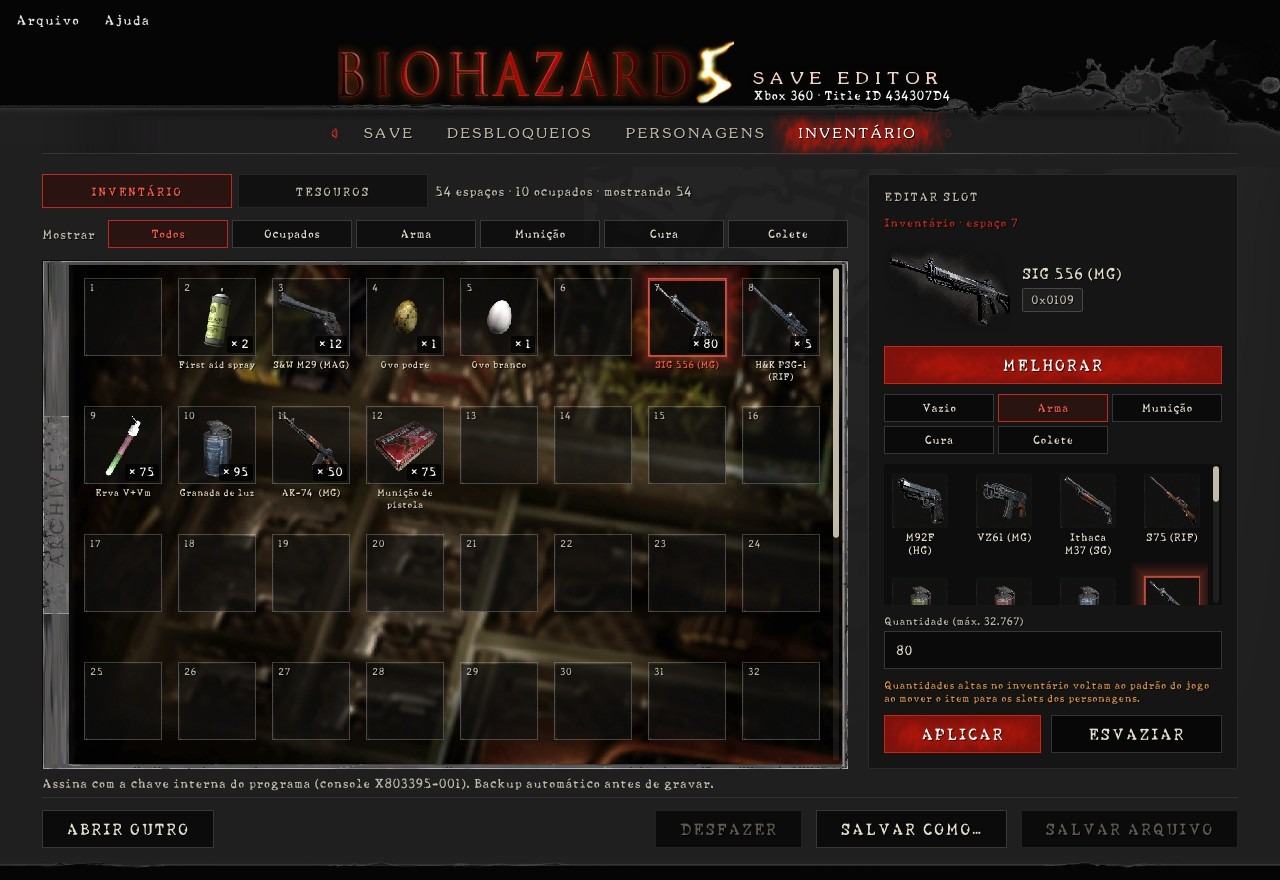
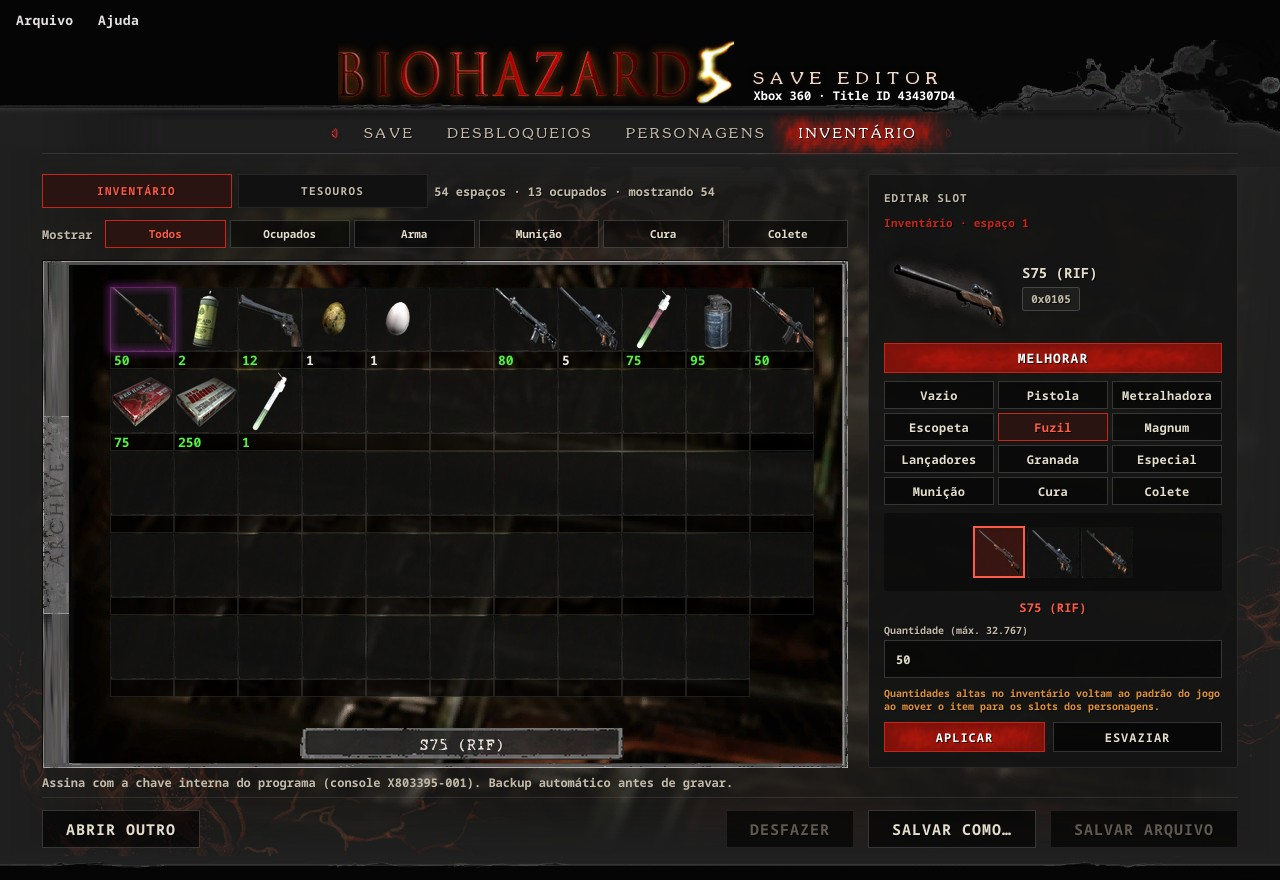
Versão 1.1.0: Personagens e Inventário no visual do jogo, Loja arma por arma e save do jogo sem atualização

diff --git a/CHANGELOG.md b/CHANGELOG.md
@@ -5,6 +5,95 @@ mais antiga. As versões seguem o [Versionamento Semântico](https://semver.org/
 
 ---
 
+## 1.1.0 — 2026-11-26
+
+Personagens e Inventário no visual do jogo, menos cliques, Loja arma por arma
+e o save do jogo sem atualização.
+
+- **Abas Personagens e Inventário no visual do jogo:** os slots do
+  Chris e da Sheva aparecem juntos, cada um embaixo do retrato, com as placas,
+  os anéis, o quadro da arma equipada e o brilho de seleção do inventário do
+  jogo; o número fica verde quando chega no limite, como no jogo. O baú usa
+  as casas, o cursor roxo e a plaqueta de nome da tela Organize e mostra os
+  54 espaços (e os 50 tesouros) sem barra de rolagem.
+- **Menos cliques:** arrastar e soltar move, junta, combina (erva
+  verde + verde, verde + vermelha, munição na arma dela) ou troca os itens,
+  com as regras do jogo; clique direito abre os atalhos; a roda do mouse muda
+  a quantidade (com Shift, de 10 em 10); Delete esvazia o slot escolhido e
+  Ctrl+Z volta o último passo. No painel, clicar no item já o põe no slot,
+  com a quantidade com que o jogo dá o item, e Enter no campo da quantidade
+  grava como o APLICAR.
+- **Painel EDITAR SLOT sem rolagem:** a classe Arma vem dividida por
+  tipo (Pistola, Metralhadora, Escopeta, Fuzil, Magnum, Lançadores, Granada,
+  Especial) e os tesouros em Objetos e Gemas; a grade mostra só os ícones, o
+  grupo inteiro à vista, com o nome embaixo. Os botões
+  APLICAR, ESVAZIAR e EQUIPAR ficam numa linha só.
+- **Grade de escolha nítida:** todos os grupos usam o mesmo tamanho,
+  com o ícone num tamanho exato do atlas (44 px; só um grupo que não caiba usa
+  40, 36 ou 32), sem o desenho torto da redução pelo pixel mais próximo. A
+  seleção fica dentro do quadradinho, sem cobrir os vizinhos.
+- **Capacidade atualiza a quantidade:** ao melhorar a capacidade de
+  uma arma, o número do slot ou do baú sobe para o pente cheio do novo nível
+  (na M92F, 10, 13, 16… até 100); voltando um nível, só baixa se passar do
+  pente menor.
+- **EDITAR SLOT sem descrições:** a descrição, a ficha e as
+  observações do item saem do painel; o texto mudava a altura e encolhia a
+  grade de escolha, que agora fica sempre do mesmo tamanho.
+- **Colete e bastão de choque com quantidade fixa:** como no jogo
+  (que dá 1 de cada), o editor grava 1 e não deixa mudar; não aparece número
+  no slot nem no baú.
+- **Slots centrados e fundo do Inventário:** os slots do Chris e da
+  Sheva ficam centrados embaixo de cada retrato; a aba Inventário ganha a foto
+  da caixa de itens com as células, veias e redes do jogo na janela inteira.
+- **Retratos sem seleção:** o contorno vermelho e o clique nos
+  retratos saem; eles escolhiam qual grade aparecia, e agora as duas ficam
+  sempre à vista.
+- **Save do jogo sem atualização:** o editor abre o save do Xbox
+  gravado pelo jogo do disco, sem a TU5 (o savedata.bin menor, de 19.392
+  bytes), edita e grava no mesmo tamanho. A aba Save mostra "jogo sem
+  atualização" e avisa que a Samurai Edge do Barry não funciona nesse jogo.
+- **Aba Save mais simples:** saem os botões COPIAR DE OUTRO SAVE,
+  VOLTAR IDS, LER PERFIL e RENOMEAR.
+- **Letra Noto Sans Mono:** os textos do editor passam para a Noto Sans
+  Mono (os títulos e as abas continuam na letra do jogo; o número amarelo do
+  Gold e dos pontos, na máquina de escrever).
+- **Abas com fundo:** Desbloqueios, Personagens e Inventário mostram a
+  foto da caixa de itens com as células, veias e redes do jogo, com os painéis
+  translúcidos (o EDITAR SLOT também); na aba Personagens os slots ficam
+  direto sobre a arte da janela, sem quadro escuro em volta.
+- **Janela grande sem esticar:** com a janela maximizada, as telas
+  ficam com a largura da janela normal, centralizadas, e o fundo cobre o resto
+  sem deformar.
+- **Loja arma por arma:** a aba Desbloqueios ganha a lista Loja com
+  as 23 armas da loja do jogo (as 18 e as especiais), cada uma com o ícone, o
+  preço em ₦ e quando o jogo libera (capítulo; a Gatling e o Longbow com a
+  VZ61 e a S75 no máximo; a M93R, a Hydra e a M500 com a M92F, a Ithaca e a
+  M29 no máximo); dá para pôr à venda uma por uma. O bit de
+  cada arma é a posição dela na lista da loja do jogo; os outros itens da loja
+  ficam como estão. O botão LIBERAR ARMAS NA LOJA continua igual.
+- **Verde no baú também no padrão:** no baú o número fica verde quando
+  o item chega no padrão do jogo, como nos slots (granadas, munição, curas).
+- **Arco longo só da Sheva e Metralhadora giratória só do Chris:**
+  o editor não oferece essas armas no outro personagem, e arrastar, Dar e
+  Para o Chris / Para a Sheva também respeitam isso.
+- **Lança-granadas carregam:** os seis lança-granadas não têm tabela
+  de melhorias; o pente de 12 vem da tabela de armas do jogo. Cada cartucho
+  carrega o lança-granadas dele, como no jogo, e há Encher e número verde.
+- **Números do baú numa faixa própria:** cada casa tem, embaixo do
+  ícone, uma faixa escura com o número, que nunca cobre o item (nem com 32.767),
+  com as cores dos slots: branco, verde no limite e o ∞ verde. Os 54 espaços
+  e os 50 tesouros continuam cabendo sem rolagem.
+- **Juntar munição:** soltar munição em cima da mesma munição junta
+  até o limite também no mesmo personagem e no baú (antes trocava de lugar).
+- **Armas da DLC com pente cheio:** a Px4 e as duas Samurai Edge (do
+  Wesker e do Barry) entram com o pente cheio (25, 15 e 30), têm Encher, ficam
+  com o número verde no limite e recebem a munição de pistola.
+- **Seta das melhorias do jogo:** na tela de melhorias, a seta
+  dourada da tela Organize sobe, com a animação do jogo, na linha sob o mouse
+  enquanto ela ainda pode subir e no slot da arma.
+
+---
+
 ## 1.0.0 — 2026-10-19
 
 Primeira versão.

diff --git a/README.md b/README.md
@@ -44,6 +44,7 @@ nem instalador.
 | Inventário do baú | ✓ 54 espaços | ✓ 54 espaços |
 | Tesouros do baú | ✓ os 50 do jogo | ✓ os 50 do jogo |
 | Perfil (XUID), Device ID e gamertag | ✓ | — |
+| Save do jogo sem atualização (disco, sem a TU5) | ✓ | — |
 | Nome do save no dashboard | ✓ | — |
 | Steam ID | — | ✓ |
 | Assinatura do pacote | ✓ automática | não se aplica |
@@ -53,9 +54,9 @@ nem instalador.
 | Aba | O que oferece |
 |---|---|
 | **Save** | Faixa com o logo do jogo, Chris e Sheva da arte do The Mercenaries ao fundo, nome do save, Gold, Exchange Points, data, perfil com gamertag, pasta correta no pendrive e o estado da integridade (checksum, hashes e assinatura). |
-| **Desbloqueios** | Roupas do Chris e da Sheva, filtros de tela, munição infinita das 19 armas (com o ícone de cada uma), os 12 arquivos da Biblioteca, as 46 Figuras e, no PC, as 10 Figuras extras. |
-| **Personagens** | Os 9 slots do Chris e da Sheva, oferecendo só o que o jogo aceita em cada slot, com as melhorias de cada arma. A Px4 e as duas Samurai Edge (a do Wesker e a do Barry) trazem a ficha do jogo: potência, capacidade, recarga, crítico, perfuração e mira. |
-| **Inventário** | O baú em grade de ícones, como no jogo, com as abas Inventário (com filtro por categoria) e Tesouros (com "Colocar todos"). Quantidades altas no inventário voltam ao padrão do jogo ao mover o item para os slots dos personagens. |
+| **Desbloqueios** | Roupas do Chris e da Sheva, filtros de tela, munição infinita das 19 armas (com o ícone de cada uma), os 12 arquivos da Biblioteca, as 46 Figuras e, no PC, as 10 Figuras extras. A lista **Loja** mostra as 23 armas da loja do jogo (com as especiais), com o ícone, o preço em ₦ e quando o jogo libera cada uma, para pôr à venda arma por arma. |
+| **Personagens** | Os 9 slots do Chris e da Sheva, os dois à vista, no visual do inventário do jogo, cada um centrado embaixo do retrato. O Arco longo fica só com a Sheva e a Metralhadora giratória só com o Chris. Arrastar e soltar move, junta, combina (ervas, munição na arma dela) ou troca, inclusive entre o Chris e a Sheva, com as regras do jogo; clique direito tem os atalhos (Encher, Equipar, Dar, Mandar para o baú, Esvaziar); a roda do mouse muda a quantidade; Delete esvazia e Ctrl+Z volta o último passo. No painel, as armas vêm por tipo (Pistola, Metralhadora, Escopeta, Fuzil, Magnum, Lançadores, Granada, Especial), todas à vista, e clicar no item já o põe no slot, com a quantidade com que o jogo dá o item (na arma, o pente cheio). Melhorias de cada arma, com a seta dourada do jogo subindo na linha sob o mouse e no slot; ao melhorar a capacidade, a quantidade sobe para o pente cheio do novo nível. A Px4 e as duas Samurai Edge (a do Wesker e a do Barry) entram com o pente cheio da ficha do jogo (25, 15 e 30). |
+| **Inventário** | O baú com as casas e o cursor do jogo, com o número numa faixa embaixo de cada ícone (branco, verde no limite e o ∞ verde), todos os espaços à vista, com as abas Inventário (com filtro por categoria) e Tesouros (com "Colocar todos"; no painel, Objetos e Gemas). Arrastar e soltar, clique direito (Para o Chris, Para a Sheva, Encher, Esvaziar), roda do mouse, Delete e Ctrl+Z, como na aba Personagens. Do baú para o slot, o item leva no máximo o limite do jogo e o resto fica no baú. |
 
 O catálogo cobre os **407 registros de item** do jogo, com nome oficial,
 descrição e os **174 ícones originais** do RE5 e das DLCs.
@@ -79,7 +80,7 @@ descrição e os **174 ícones originais** do RE5 e das DLCs.
 | ![Personagens](docs/prints/personagens.jpg) | ![Inventário](docs/prints/inventario.jpg) |
 | ![Munição infinita](docs/prints/desbloqueios-municao.jpg) | ![Figuras na aba Desbloqueios](docs/prints/desbloqueios-figuras.jpg) |
 | ![Save de PC (Steam)](docs/prints/pc-steam.jpg) | ![Tesouros](docs/prints/tesouros.jpg) |
-| ![Melhorias das armas](docs/prints/melhorias.jpg) | |
+| ![Melhorias das armas](docs/prints/melhorias.jpg) | ![Loja na aba Desbloqueios](docs/prints/desbloqueios-loja.jpg) |
 
 As capturas usam saves reais do Xbox 360 e da Steam, com o perfil, os IDs e a
 pasta do pendrive desfocados.
